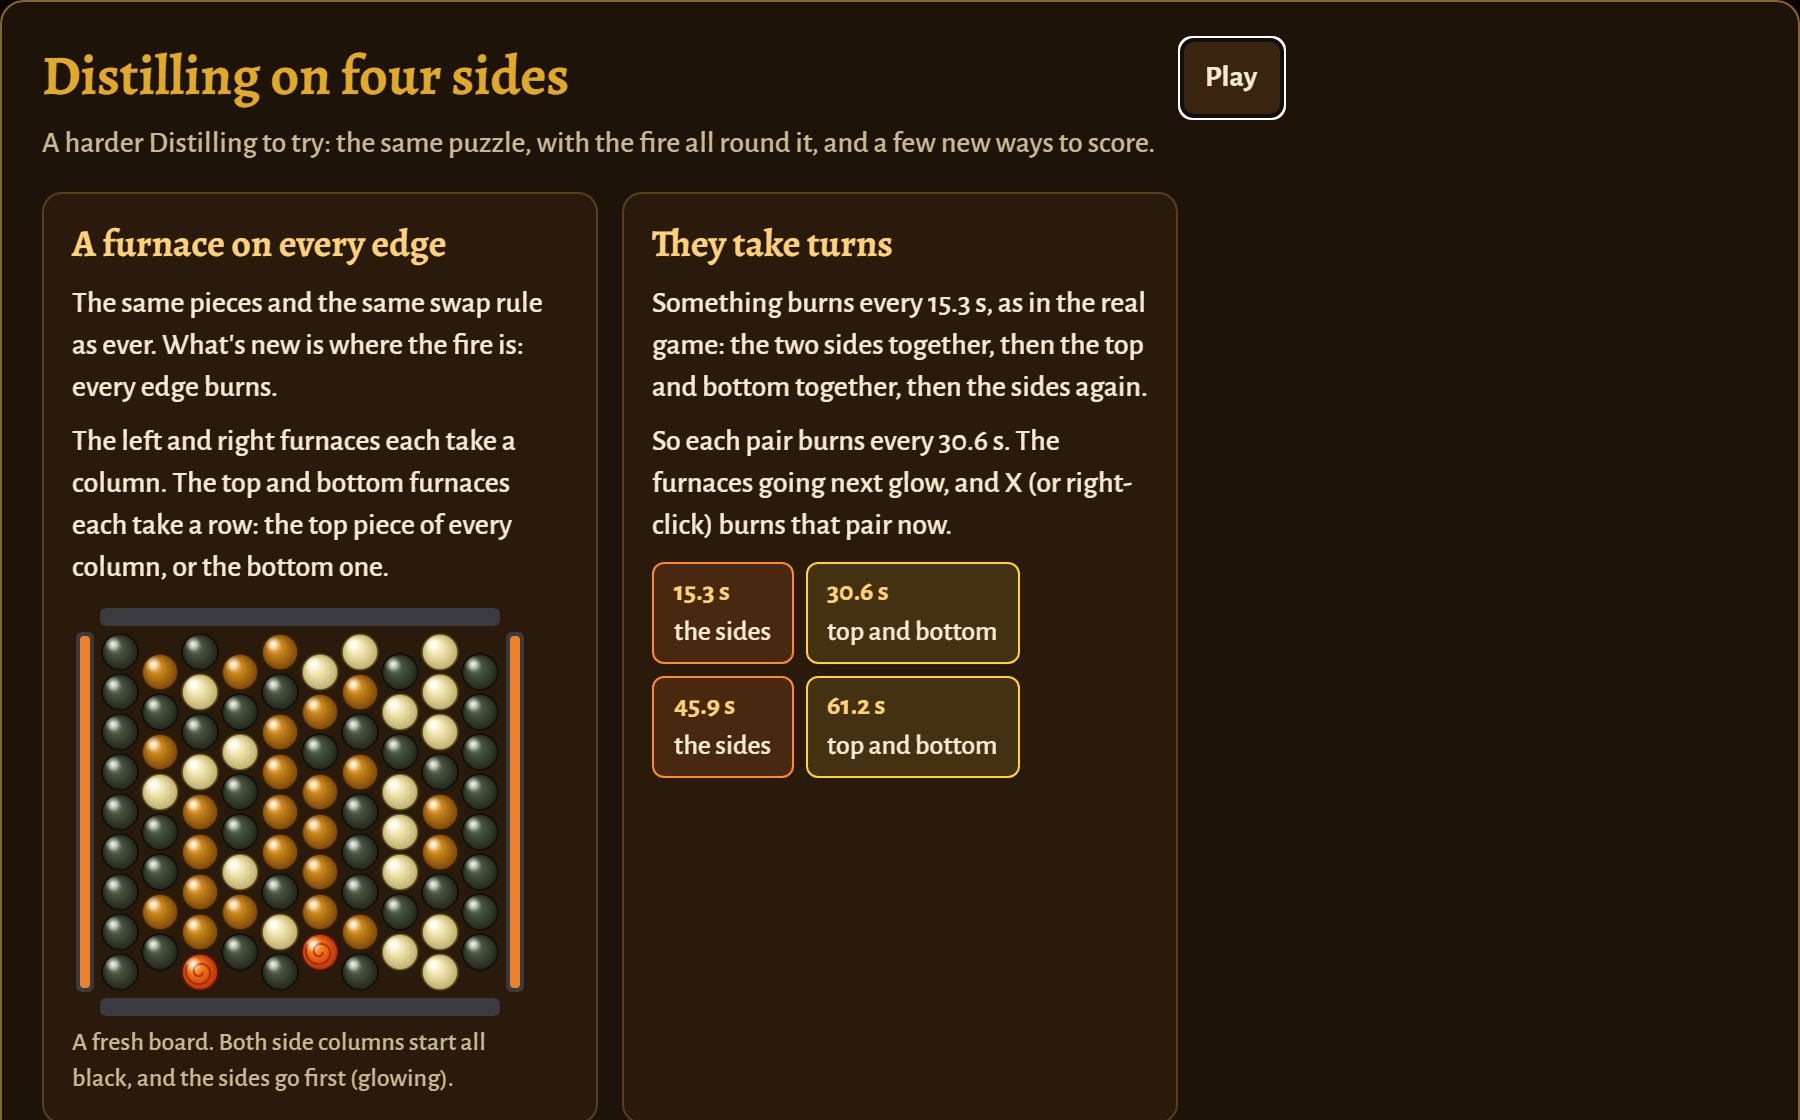
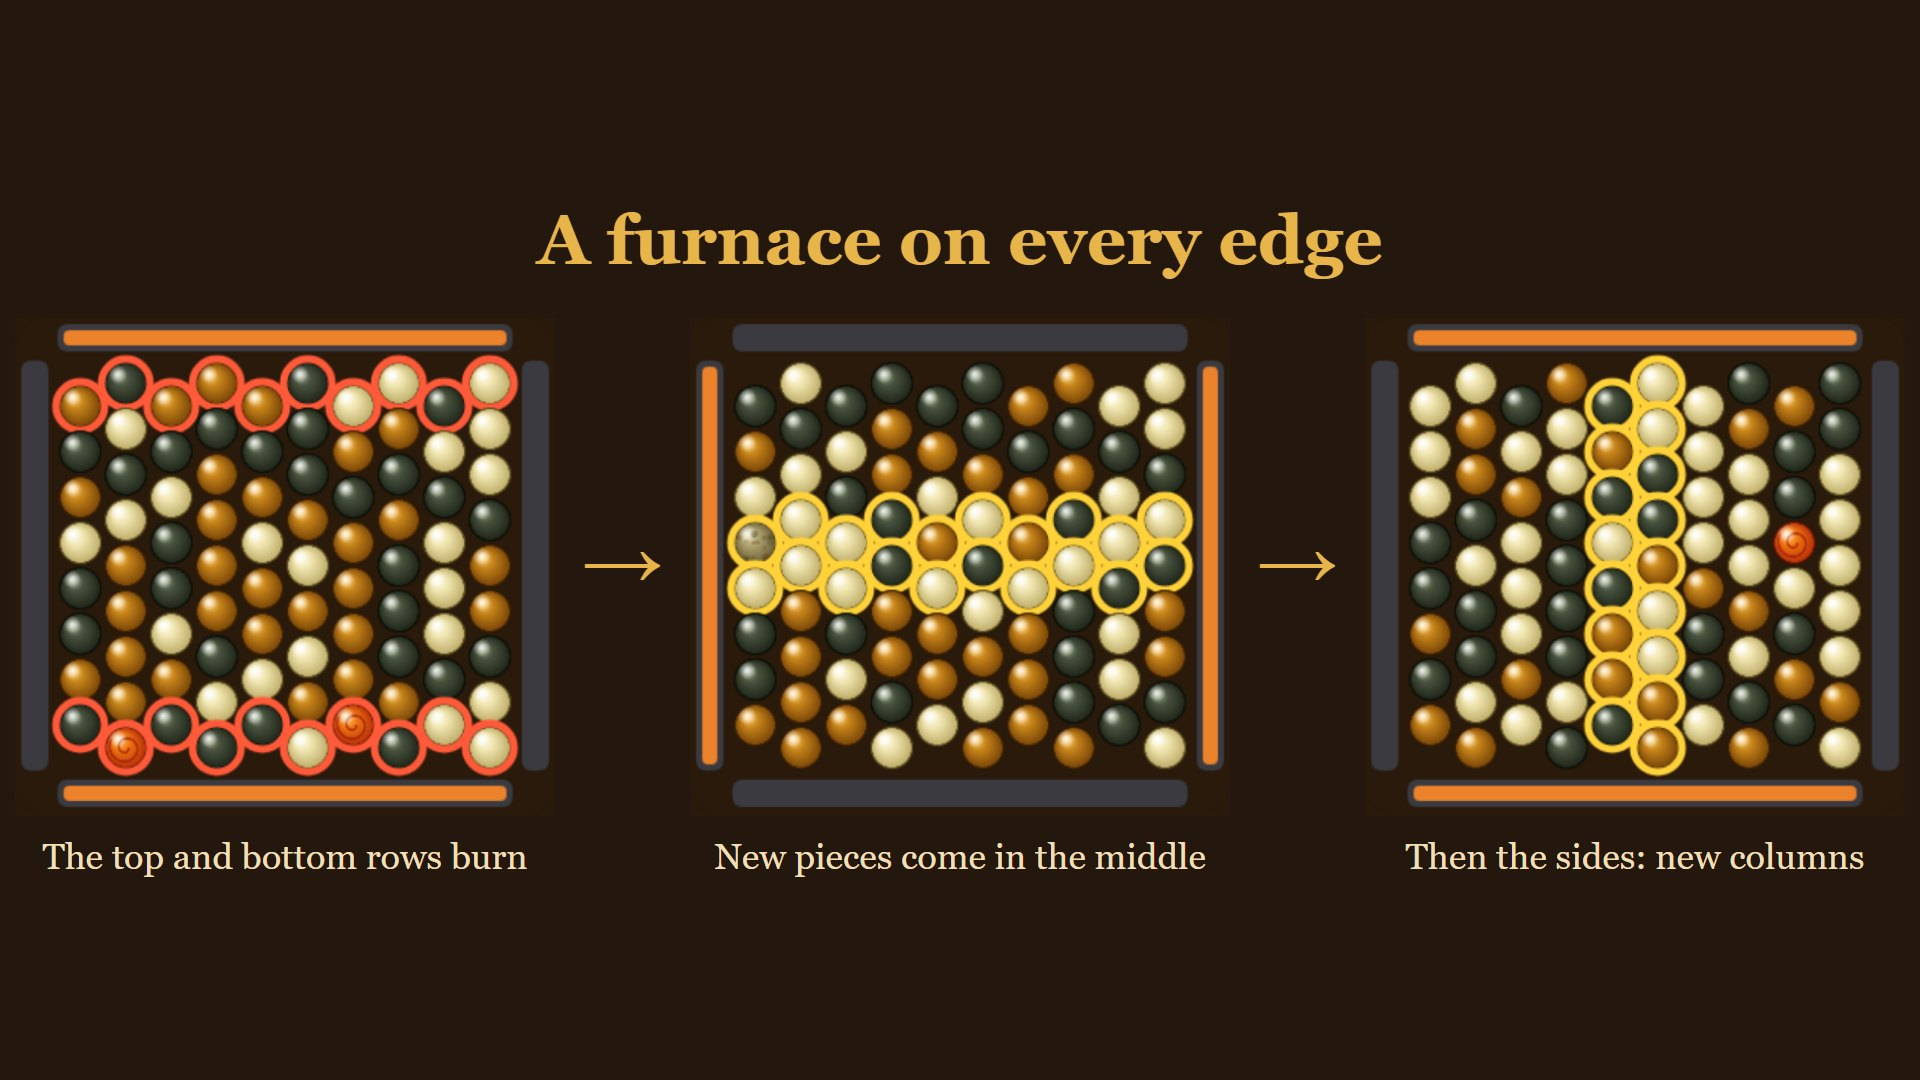
Front page: harder Distilling first among the new concepts, a picture of new pieces coming in the middle; the blockade as a 3D experiment

diff --git a/index.html b/index.html
@@ -240,7 +240,7 @@
     </details>
 
   <nav class="choices" id="choose" aria-label="What are you here for?">
-    <div class="choice"><a class="choice-head" href="#concepts"><b>Try some interesting new concepts</b><span class="see">See more ↓</span></a><div class="pics"><a href="den.html?at=race"><figure><img src="changelog/race-field.jpg" width="1280" height="720" alt=""><figcaption>The sloop race</figcaption></figure></a><a href="blockade-test.html"><figure><img src="changelog/blockade-brawl.jpg" width="800" height="505" alt=""><figcaption>A blockade</figcaption></figure></a><a href="den.html?at=rowing"><figure><img src="changelog/rowing.jpg" width="1280" height="720" alt=""><figcaption>Rowing</figcaption></figure></a></div></div>
+    <div class="choice"><a class="choice-head" href="#concepts"><b>Try some interesting new concepts</b><span class="see">See more ↓</span></a><div class="pics"><a href="distilling-harder.html"><figure><img src="changelog/distilling-four-sides-card.jpg" width="1920" height="1080" alt=""><figcaption>Distilling, harder</figcaption></figure></a><a href="den.html?at=race"><figure><img src="changelog/race-field.jpg" width="1280" height="720" alt=""><figcaption>The sloop race</figcaption></figure></a><a href="blockade-test.html"><figure><img src="changelog/blockade-brawl.jpg" width="800" height="505" alt=""><figcaption>A blockade in 3D</figcaption></figure></a></div></div>
     <div class="choice"><a class="choice-head" href="#tutorials"><b>Try out some new tutorials</b><span class="see">See more ↓</span></a><div class="pics"><a href="den.html?at=helium"><figure><img src="changelog/helium-lesson.jpg" width="1280" height="720" alt=""><figcaption>Distilling, with Helium</figcaption></figure></a><a href="den.html?at=tzz"><figure><img src="changelog/tzz-lesson.jpg" width="1280" height="720" alt=""><figcaption>Sailing, with Tzz</figcaption></figure></a><a href="distilling-guide.html"><figure><img src="changelog/distilling-guide.jpg" width="1280" height="720" alt=""><figcaption>Distilling, to read</figcaption></figure></a></div></div>
     <div class="choice"><a class="choice-head" href="#fun"><b>A bit of fun and a look around</b><span class="see">See more ↓</span></a><div class="pics"><a href="den.html?at=kikkit"><figure><img src="changelog/kikkit-approach.jpg" width="960" height="540" alt=""><figcaption>Kikkit's island</figcaption></figure></a><a href="den.html?at=gravee"><figure><img src="changelog/gravee.jpg" width="1280" height="720" alt=""><figcaption>Gravee's gallery</figcaption></figure></a><a href="den.html?at=umami"><figure><img src="changelog/umami-rescue.jpg" width="1280" height="720" alt=""><figcaption>Rescuing Umami the capybara</figcaption></figure></a></div></div>
   </nav>
@@ -249,6 +249,12 @@
 
   <div class="cards">
     <article>
+      <a class="pic" href="distilling-harder.html"><img src="changelog/distilling-four-sides-card.jpg" width="1920" height="1080" loading="lazy" alt="A furnace on every edge: the top and bottom rows burn, new pieces come in through the middle, then the sides burn and two new columns rise in the middle"></a>
+      <h3>Distilling, harder</h3>
+      <p>A furnace on every edge, taking turns: no one way to play it, a choice at every burn of what to save and what to let go.</p>
+      <p class="try"><a class="go" href="distilling-harder.html">Try it</a></p>
+    </article>
+    <article>
       <a class="pic" href="den.html?at=race"><img src="changelog/race-field.jpg" width="1280" height="720" loading="lazy" alt="Three sloops racing down through the start's whirlpools toward the first buoy and the gun gap"></a>
       <h3>The sloop race</h3>
       <p>A race made of puzzles: every shortcut a different one, every way round able to win.</p>
@@ -256,8 +262,8 @@
     </article>
     <article>
       <a class="pic" href="blockade-test.html"><img src="changelog/blockade-board.jpg" width="800" height="643" loading="lazy" alt="A blockade board from above: the walled fort in the middle, winds blowing out of it to four reef lagoons, both fleets round them"></a>
-      <h3>A blockade</h3>
-      <p>Two fleets fight for the buoys: sloops, brigs and war frigates, each with a job. Watch the bots, or watch two frigates brawl.</p>
+      <h3>A blockade in 3D</h3>
+      <p>What if a war frigate were really bigger than a sloop? A blockading experiment: frigates too big for the reefs shoot their way into the fort, while sloops slip in round them.</p>
       <p class="try"><a class="go" href="blockade-test.html">Watch a blockade</a> <a href="blockade-test.html?watch=brawl">A brawl</a></p>
     </article>
     <article>
@@ -265,12 +271,6 @@
       <h3>Rowing</h3>
       <p>Two boards of mirror strokes, one for each side's oars. The turn you build shows on her.</p>
       <p class="try"><a class="go" href="den.html?at=rowing">Row her</a></p>
-    </article>
-    <article>
-      <a class="pic" href="distilling-harder.html"><img src="changelog/distilling-four-sides-card.jpg" width="900" height="560" loading="lazy" alt="Distilling on four sides: a board with a furnace bar along every edge, and the furnaces taking turns"></a>
-      <h3>Distilling, harder</h3>
-      <p>A furnace on every edge, taking turns: no one way to play it, a choice at every burn of what to save and what to let go.</p>
-      <p class="try"><a class="go" href="distilling-harder.html">Try it</a></p>
     </article>
   </div>
   <p class="more"><a href="#places">See more: every place in the den</a></p>

diff --git a/changelog.html b/changelog.html
@@ -79,7 +79,8 @@
   <h2><time datetime="2026-11-21">21 November</time></h2>
 
   <article>
-    <div class="shots">
+    <div class="shots two">
+      <a href="distilling-harder.html"><img src="changelog/distilling-four-sides-card.jpg" width="1920" height="1080" loading="lazy" alt="A furnace on every edge: the top and bottom rows burn, new pieces come in through the middle, then the sides burn and two new columns rise in the middle"></a>
       <a href="distilling-harder.html"><img src="changelog/distilling-four-sides.jpg" width="900" height="930" loading="lazy" alt="Distilling on four sides, as the page explains it: a board with a furnace bar along every edge, the top and bottom rows ringed as they go, new pieces coming in through the middle"></a>
     </div>
     <h3>Distilling, harder: a furnace on every edge</h3>

diff --git a/tasks/den/front-pages-new-concepts-harder-distilling-first.md b/tasks/den/front-pages-new-concepts-harder-distilling-first.md
@@ -1,0 +1,13 @@
+---
+title: Front page's new concepts: harder Distilling first, its picture plainer, the blockade's words on its idea
+status: done
+asked: 21 Nov
+updated: 21 Nov
+---
+
+**Asked:** 21 Nov: the harder Distilling card's picture "doesn't show like pieces appearing in the middle of the four furnaces, something more obviously visible in the screenshot. Also, it may be kind of sad that it's not actually right at the top in the ... new interesting concepts thing. Also, where it says a blockade in the new concept, though, surely it should say more like, what if frigates were actually bigger than sloops? You know, a 3D blockading experiment ... it doesn't really describe anything about the idea."
+
+## Log
+
+- 21 Nov: added.
+- 21 Nov: done
